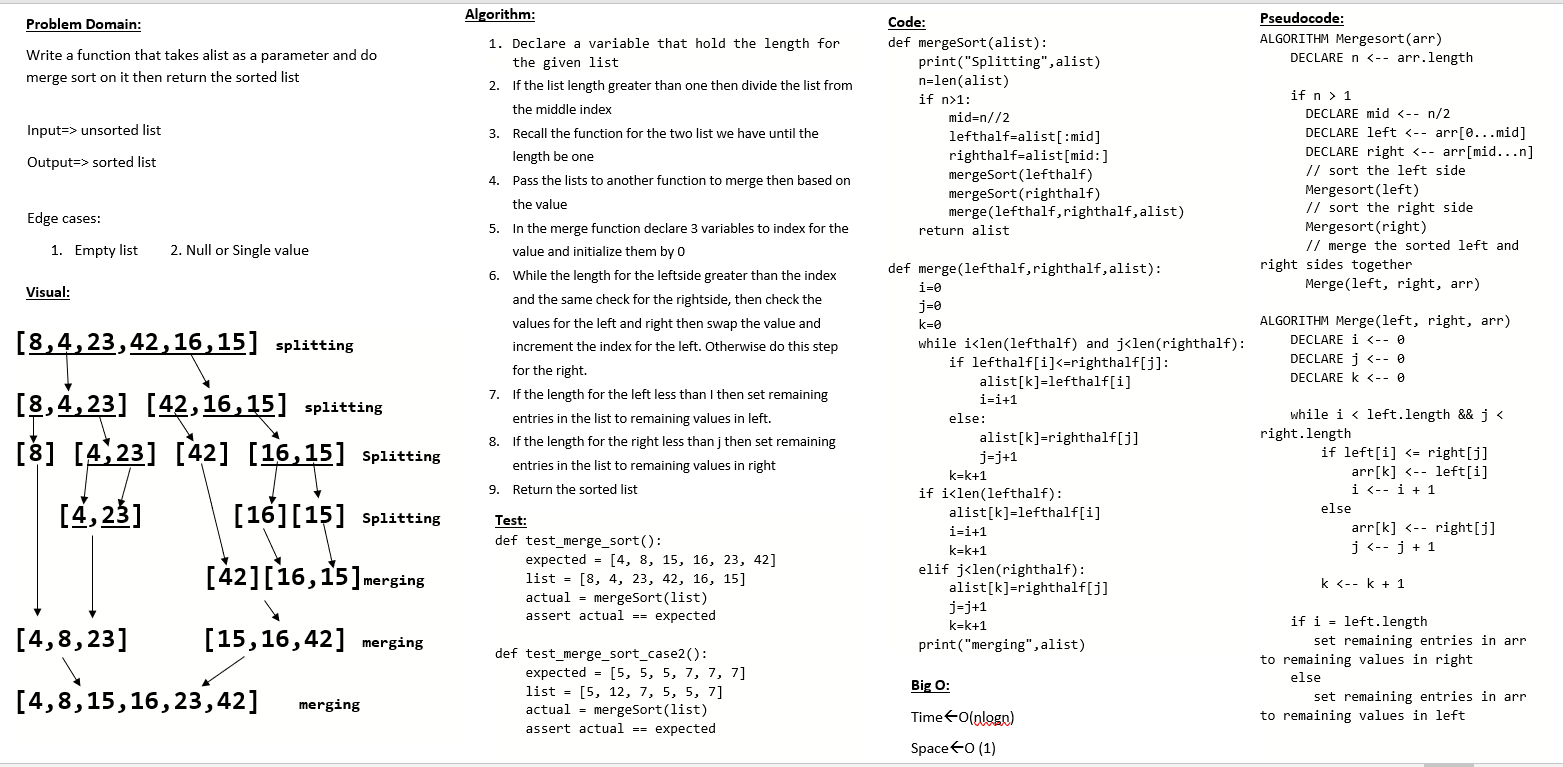
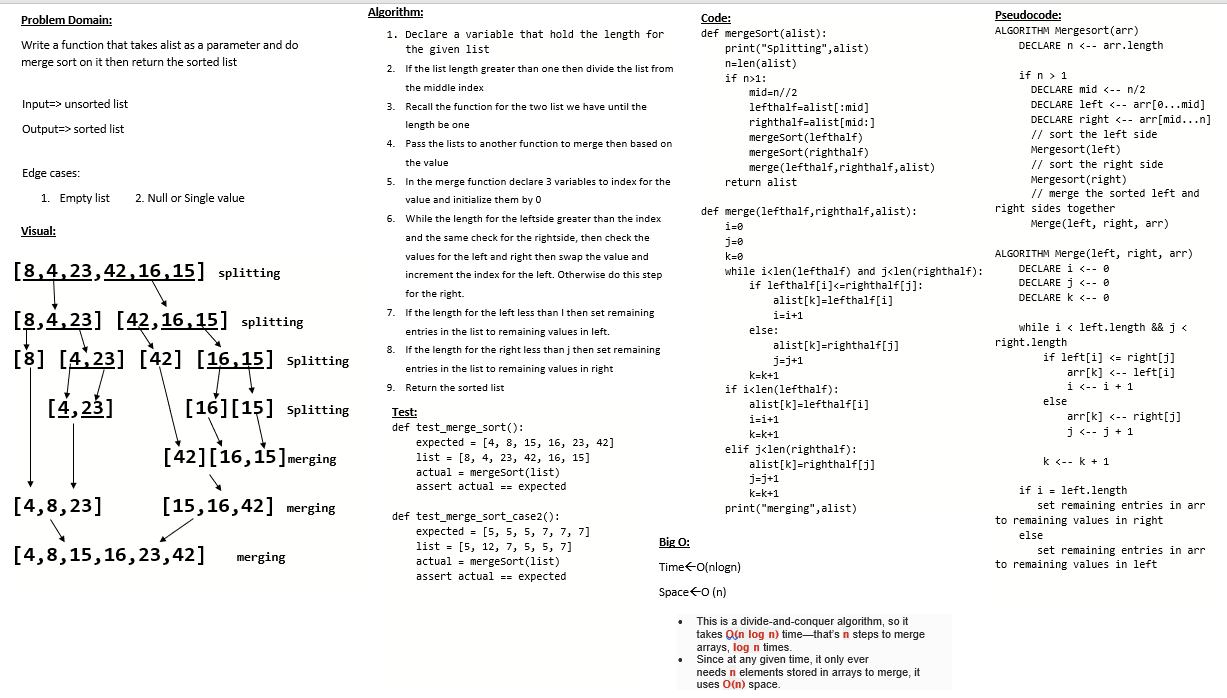
fix bigo

diff --git a/python/code_challenges/quick_sort/README.md b/python/code_challenges/quick_sort/README.md
@@ -10,6 +10,8 @@ Review the pseudocode for **Quick sort**, then trace the algorithm by stepping t
 ## Approach & Efficiency
 - Time : O(nLogn).
 - space : O(1)
+This is a divide-and-conquer algorithm, so, best case, it takes O(n log n) time—that’s n steps to partition the array, log n times.
+Since at any step in the process, it only swaps elements within the array, it uses O(1) space.
 
 ## Solution
 after cloneing the repo navigate to `python/code_challenges/quick_sort ` directory then run `poetry shell` and `poerty install` then run `pytest`

diff --git a/python/code_challenges/merge_sort/README.md b/python/code_challenges/merge_sort/README.md
@@ -9,7 +9,9 @@
 
 ## Approach & Efficiency
 - Time :O(nlogn)
-- space :O(1)
+- space :O(n)
+This is a divide-and-conquer algorithm, so it takes O(n log n) time—that’s n steps to merge arrays, log n times.
+Since at any given time, it only ever needs n elements stored in arrays to merge, it uses O(n) space.
 
 ## Solution
 after cloneing the repo navigate to `python/Code_challenge/merge_sort ` directory then run `poetry shell` and `poerty install` then run `pytest`
